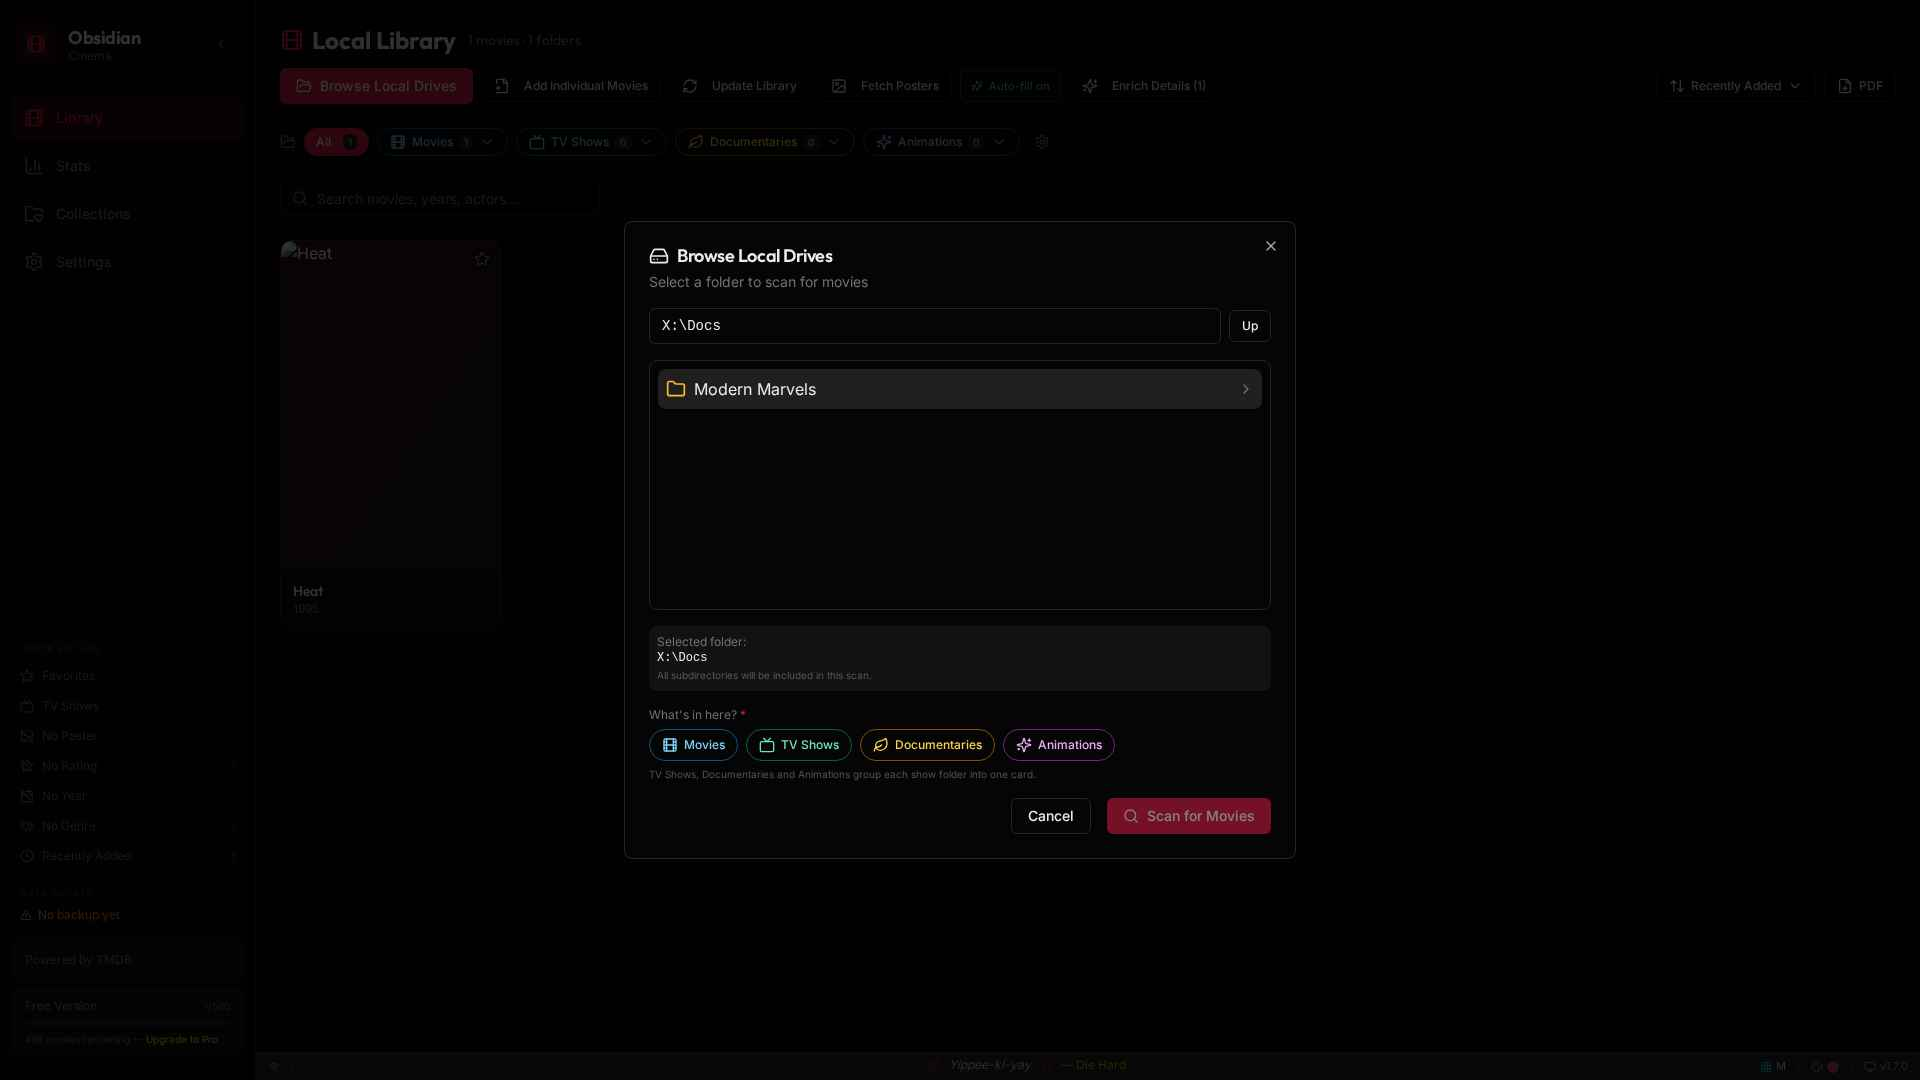
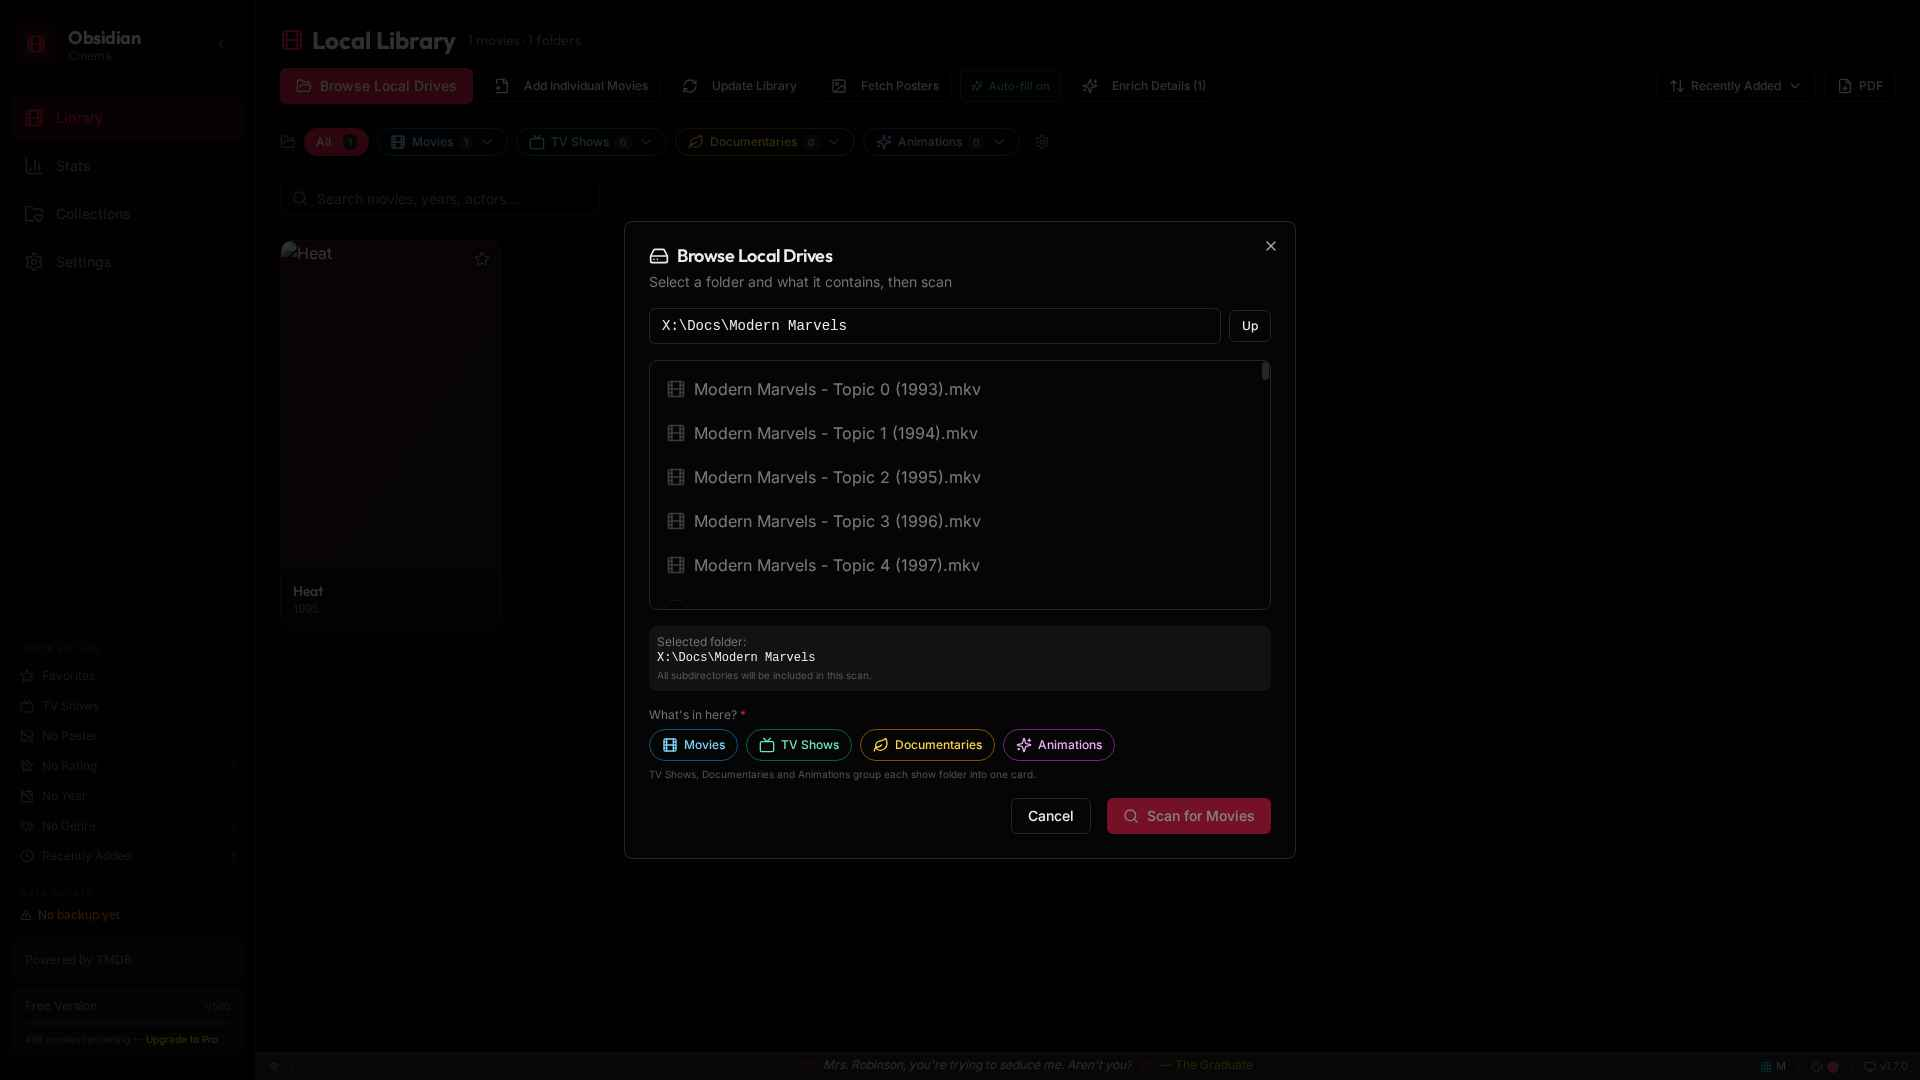
## Choose the Type on Import, and Folder Shows in One Card (still v1.7.0) You now pick the type before anything is imported, and a folder full of one show's episodes becomes a single card named after the folder. All tests pass in the browser test version of the app, including your earlier fixes; I h
- **Folder scans:** after picking a folder in Browse Local Drives, you choose Movies, TV Shows, Documentaries or Animations. Scan stays greyed out until you pick, the picker clears each time the window closes, and the button reads "Scan for Shows" when you picked a show type.
- **Add Files:** a small window asks the type first, then opens the file picker. The folder holding those files is saved with that type and now appears in the type dropdowns with correct counts.
- **One card per show folder:** files sitting directly in a TV, Documentaries or Animations folder become one card named after that folder. In testing, 600 "Modern Marvels" files became 1 card with 600 parts, and none were matched as separate movies.

**What stays separate on purpose:**
- **Different shows in one TV folder:** files like Show.A.S01E01 and Show.B.S01E01 are not merged.
- **Films in a Documentaries or Animations folder:** these group only when they look like a series. That means numbered files, files named after the folder, or files that mostly start with the same words. A folder like Toy Story, Cars and Up stays as separate movies and is matched normally.
- **Plain episode titles:** a documentary series whose files are only titles, such as "Hoover Dam.mkv", won't group unless the folder is set to TV Shows.

**Things to know:**
- **Free plan cap:** the 500 limit counts files, not cards, so on the free plan only 499 of the 600 Modern Marvels files would be imported.
[…]

diff --git a/frontend/src/components/DirectoryDropdowns.jsx b/frontend/src/components/DirectoryDropdowns.jsx
@@ -31,9 +31,9 @@ function dirLabel(dir) {
   return dir.split(/[\\/]/).pop() || dir;
 }
 
-function CategoryDropdown({ cat, dirs, counts, activeDirectory, activeCategory, onPickDir, onPickCategory }) {
+function CategoryDropdown({ cat, dirs, counts, catTotal, activeDirectory, activeCategory, onPickDir, onPickCategory }) {
   const Icon = cat.icon;
-  const total = dirs.reduce((t, d) => t + (counts[d] || 0), 0);
+  const total = catTotal ?? dirs.reduce((t, d) => t + (counts[d] || 0), 0);
   const activeDir = dirs.find(d => d === activeDirectory);
   const isActive = activeCategory === cat.id || !!activeDir;
   return (
@@ -79,7 +79,7 @@ function CategoryDropdown({ cat, dirs, counts, activeDirectory, activeCategory, 
 }
 
 // "All" button + one colored dropdown per folder type + manage gear
-export function DirectoryDropdowns({ directories, categories, counts, totalCount, activeDirectory, activeCategory, onPickDir, onPickCategory, onClearAll, onManage }) {
+export function DirectoryDropdowns({ directories, categories, counts, catCounts, totalCount, activeDirectory, activeCategory, onPickDir, onPickCategory, onClearAll, onManage }) {
   return (
     <div className="flex flex-wrap items-center gap-2" data-testid="directory-filter">
       <FolderOpen className="w-4 h-4 text-muted-foreground shrink-0" />
@@ -99,6 +99,7 @@ export function DirectoryDropdowns({ directories, categories, counts, totalCount
           cat={cat}
           dirs={directories.filter(d => dirCategory(categories, d) === cat.id)}
           counts={counts}
+          catTotal={catCounts ? (catCounts[cat.id] || 0) : undefined}
           activeDirectory={activeDirectory}
           activeCategory={activeCategory}
           onPickDir={onPickDir}

diff --git a/frontend/src/pages/LocalLibraryPage.jsx b/frontend/src/pages/LocalLibraryPage.jsx
@@ -1573,9 +1573,14 @@ export default function LocalLibraryPage() {
       if (m.tmdb_id && !m.metadata_updated_at) needsDetails++;
     });
     typedDirs.forEach(d => { dirCounts[d] = 0; });
-    movies.forEach(m => { typedDirs.forEach(d => { if (inDir(m.file_path, d)) dirCounts[d]++; }); });
-    return { dirCounts, missingPoster, needsReview, needsDetails };
-  }, [movies, typedDirs]);
+    const catCounts = {};
+    movies.forEach(m => {
+      const cats = new Set();
+      typedDirs.forEach(d => { if (inDir(m.file_path, d)) { dirCounts[d]++; cats.add(dirCategory(dirCategories, d)); } });
+      cats.forEach(c => { catCounts[c] = (catCounts[c] || 0) + 1; });
+    });
+    return { dirCounts, catCounts, missingPoster, needsReview, needsDetails };
+  }, [movies, typedDirs, dirCategories]);
 
   const displayedMovies = filteredMovies.slice(0, visibleCount);
   const hasMore = visibleCount < filteredMovies.length;
@@ -1934,6 +1939,7 @@ export default function LocalLibraryPage() {
           directories={typedDirs}
           categories={dirCategories}
           counts={libraryCounts.dirCounts}
+          catCounts={libraryCounts.catCounts}
           totalCount={movies.length}
           activeDirectory={activeDirectory}
           activeCategory={activeCategory}

diff --git a/frontend/src/lib/multiPart.js b/frontend/src/lib/multiPart.js
@@ -113,10 +113,10 @@ function looksLikeSeries(cards, folder) {
   if (folderKey && names.filter(n => normKey(n).startsWith(folderKey)).length >= half) return true;
   const starts = {};
   names.forEach(n => {
-    const w = (parseFilename(n).title || '').toLowerCase().split(/\s+/).slice(0, 2).join(' ');
+    const w = (parseFilename(n).title || '').toLowerCase().replace(/^(the|a|an)\s+/, '').split(/\s+/).slice(0, 2).join(' ');
     if (w) starts[w] = (starts[w] || 0) + 1;
   });
-  return Object.values(starts).some(n => n >= half && n >= 2);
+  return Object.values(starts).some(n => n > cards.length / 2 && n >= 2);
 }
 
 // Folder-type map ({ dir: 'movies'|'tv'|'docs'|'anim' }) -> show roots (Movies entries stop a parent's grouping)

diff --git a/frontend/src/components/LocalDirectoryBrowser.jsx b/frontend/src/components/LocalDirectoryBrowser.jsx
@@ -359,7 +359,7 @@ export default function LocalDirectoryBrowser({ onMoviesFound }) {
           </div>
 
           <DialogFooter className="flex-col sm:flex-row gap-2 shrink-0">
-            <Button variant="outline" onClick={function() { setIsOpen(false); }} disabled={scanning} className="w-full sm:w-auto">
+            <Button variant="outline" onClick={function() { setIsOpen(false); setImportType(null); }} disabled={scanning} className="w-full sm:w-auto">
               Cancel
             </Button>
             <Button 

diff --git a/tests/test_iter38_retest.py b/tests/test_iter38_retest.py
@@ -1,0 +1,91 @@
+# ruff: noqa: F821
+# Iteration 38: retest of iter36 bugs - loose docs/anim series heuristics, scan button text, add-files dropdown counts, nested typed dir badge
+# Run: g={'page':page}; exec(open('/app/tests/test_iter38_retest.py').read(), g); await g['run_loose_heuristics']() / run_button_text() / run_nested_badge()
+exec(open('/app/tests/test_iter37_import_type.py').read(), globals())
+
+LOOSE_CASES = [
+    # (label, folder segs, names, typ, expect_group)
+    ("Kids films anim", ["Kids"], ["Toy Story.mkv", "Cars.mkv", "Shrek (2001).mkv", "Up.mkv"], "anim", False),
+    ("Kids films docs", ["Kids"], ["Toy Story.mkv", "Cars.mkv", "Shrek (2001).mkv", "Up.mkv"], "docs", False),
+    ("Nature numbered docs", ["Nature"], ["01 - Oceans.mkv", "02 - Deserts.mkv", "03 - Jungles.mkv", "04 - Ice.mkv"], "docs", True),
+    ("Planet Earth folder-named docs", ["Planet Earth"], ["Planet Earth - Oceans.mkv", "Planet Earth - Deserts.mkv", "Planet Earth - Caves.mkv"], "docs", True),
+    ("Shared first words anim", ["Cartoons"], ["Looney Tunes Rabbit Fire.mkv", "Looney Tunes Duck Amuck.mkv", "Looney Tunes Baseball Bugs.mkv"], "anim", True),
+    ("Docs films different names", ["DocsMix"], ["Free Solo.mkv", "Man on Wire.mkv", "Senna.mkv", "Jiro Dreams of Sushi.mkv"], "docs", False),
+]
+
+
+async def run_loose_heuristics(cases=None, auto="on"):
+    res = []
+    for label, segs, names, typ, expect in (cases or LOOSE_CASES):
+        print("===", label, typ)
+        R = "X:\\" + "\\".join(segs) + "\\"
+        files = [{"id": "lz%d" % i, "file_path": R + n, "file_name": n, "title": n[:-4]} for i, n in enumerate(names)]
+        lib = [HEAT]
+        ctx, p, mock, errs = await open4(lib, base_scan(lib) + files, auto=auto)
+        try:
+            await browse_to(p, "X:", segs)
+            mock.calls.clear()
+            await scan_as(p, typ, wait=5000)
+            groups = await report_dialog(p, merge=False)
+            await p.wait_for_timeout(1500)
+            L = await H.read_lib(p)
+            print("  cards:", lib_summary(L))
+            print("  searches:", [c_ for c_ in mock.calls if "search" in c_][:8])
+            ok = bool(groups) == expect
+            res.append((label, typ, "PASS" if ok else "FAIL"))
+            print("  RESULT", "PASS" if ok else "FAIL", "errors:", errs)
+        finally:
+            await ctx.close()
+    print("SUMMARY", res)
+
+
+async def run_button_text():
+    lib = [HEAT]
+    ctx, p, mock, errs = await open4(lib, base_scan(lib) + MM_FILES[:3])
+    try:
+        await browse_to(p, "X:", ["Docs"])
+        btn = p.locator('[data-testid="scan-folder-btn"]')
+        dlg = p.locator('[role="dialog"]').last
+        print("desc:", (await dlg.inner_text())[:300].replace("\n", " | "))
+        print("no pick:", (await btn.inner_text()).strip())
+        for t in ["movies", "tv", "docs", "anim"]:
+            await p.locator(f'[data-testid="scan-type-{t}"]').click()
+            await p.wait_for_timeout(150)
+            print(t, "->", (await btn.inner_text()).strip())
+        await p.screenshot(path=".screenshots/iter38_btn.jpg", quality=40, full_page=False)
+        # Cancel button resets
+        cancel = dlg.get_by_role("button", name="Cancel")
+        if await cancel.count():
+            await cancel.first.click()
+            await p.wait_for_timeout(400)
+            await browse_to(p, None, [])
+            print("after Cancel btn + reopen: disabled:", await btn.is_disabled(), await picker_state(p))
+        print("errors:", errs)
+    finally:
+        await ctx.close()
+
+
+async def run_nested_badge():
+    """Scanned M:\\Movies (movies) then scan M:\\Movies\\2019 as movies -> badge should not double count."""
+    files = [
+        {"id": "ma", "file_path": "M:\\Movies\\2019\\A (2019).mkv", "file_name": "A (2019).mkv", "title": "A", "year": 2019},
+        {"id": "mb", "file_path": "M:\\Movies\\2019\\B (2019).mkv", "file_name": "B (2019).mkv", "title": "B", "year": 2019},
+    ]
+    lib = [HEAT]
+    ctx, p, mock, errs = await open4(lib, base_scan(lib) + files, auto="off")
+    try:
+        await browse_to(p, "M:", ["Movies", "2019"])
+        await scan_as(p, "movies")
+        await report_dialog(p, merge=False)
+        L = await H.read_lib(p)
+        print("cards:", len(L))
+        cat_btn = p.locator('[data-testid="dir-cat-movies"]')
+        print("movies badge:", (await cat_btn.inner_text()).replace("\n", " "))
+        await cat_btn.click()
+        await p.wait_for_timeout(400)
+        menu = p.locator('[data-testid="dir-cat-menu-movies"]')
+        print("menu:", (await menu.inner_text()).replace("\n", " | ") if await menu.count() else "none")
+        await p.keyboard.press("Escape")
+        print("errors:", errs)
+    finally:
+        await ctx.close()

diff --git a/memory/PRD.md b/memory/PRD.md
@@ -109,3 +109,4 @@ Build "Obsidian Cinema"—an installable Windows desktop app (Electron) that sca
 - Tested: iteration_33 (all passing after fixes).
 - (v1.7.0, same build) In TV Shows / Documentaries / Animations directories: year folders (2019, (2019)) act as seasons ("Season 2019"); everything under a first-level show folder merges into one show card even with no season structure. Library dir that directly holds Season/year folders is treated as the show itself. Docs/Anim folders of separate films with different years stay separate; Movies dirs untouched. Logic: multiPart.js setShowRoots/rootShow/partFolder; roots set in LocalLibraryPage + Layout. Tested iteration_34 + re-run after fixes (all pass).
 - (v1.7.0, same build) FIX: Extras/new episodes merged into an existing show card were dropped again by a background metadata update holding a stale parts list (they reappeared as separate cards). applyCardUpdate (multiPart.js) now keeps the card's current parts on every metadata update. Changing a folder's type to TV/Docs/Animations immediately opens the merge dialog ("Shows found in this folder"). The grouping works for any folder layout (drive root, nested root, root = show folder, UNC/POSIX paths). Tested iteration_35 + re-runs (all pass).
+- (v1.7.0, same build) Import type picker: Browse Local Drives requires choosing Movies/TV Shows/Documentaries/Animations before Scan (ImportTypePicker.jsx); Add Files asks the type first (ImportTypeDialog) and saves it for the files' folder. Files directly in a typed TV/Docs/Anim folder become one show named for the folder (e.g. Modern Marvels, 600 files). Docs/Anim loose files group only when they look like a series (numbered, named after the folder, or sharing a title start); separate films are matched as movies. Category badges count each card once. Tested iteration_36-37 + re-runs (all pass).
